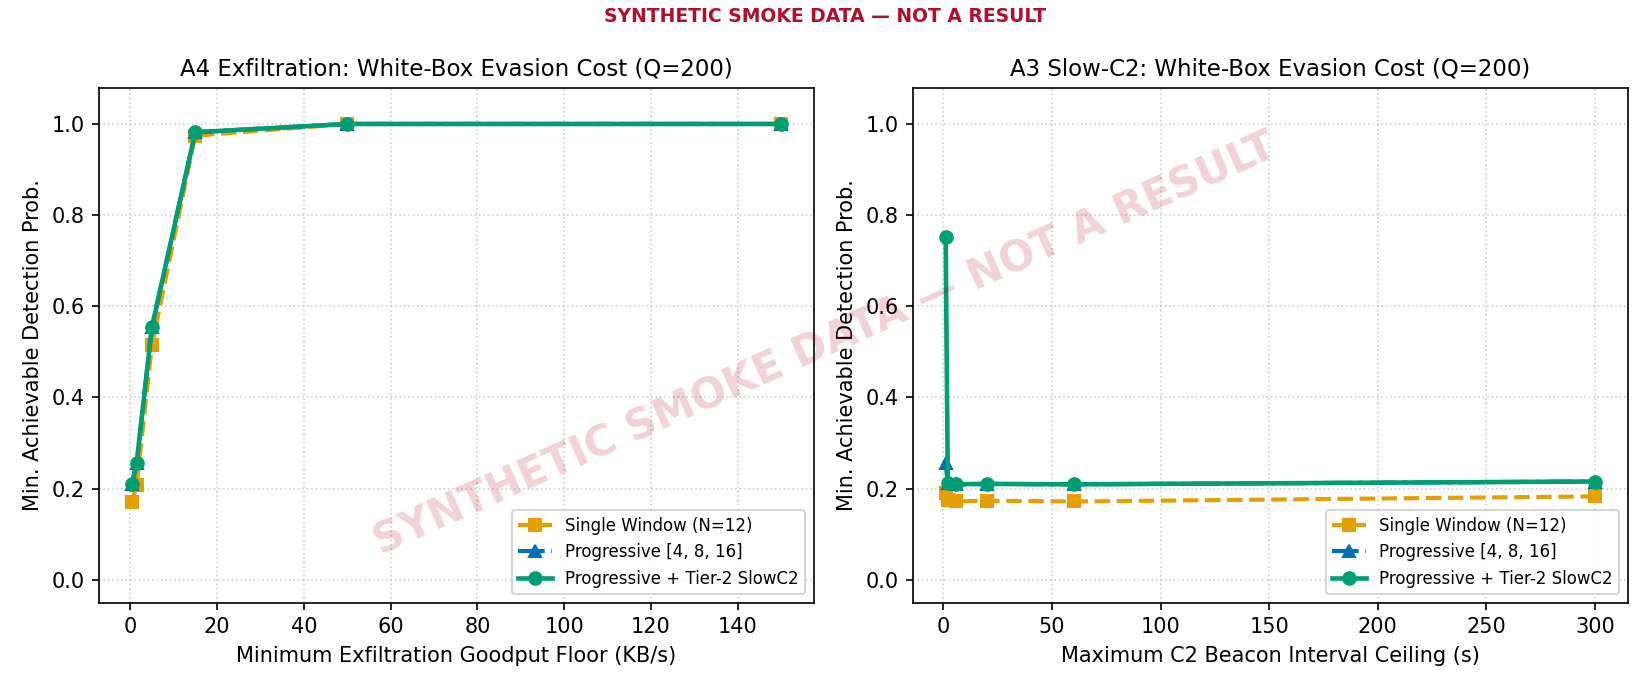
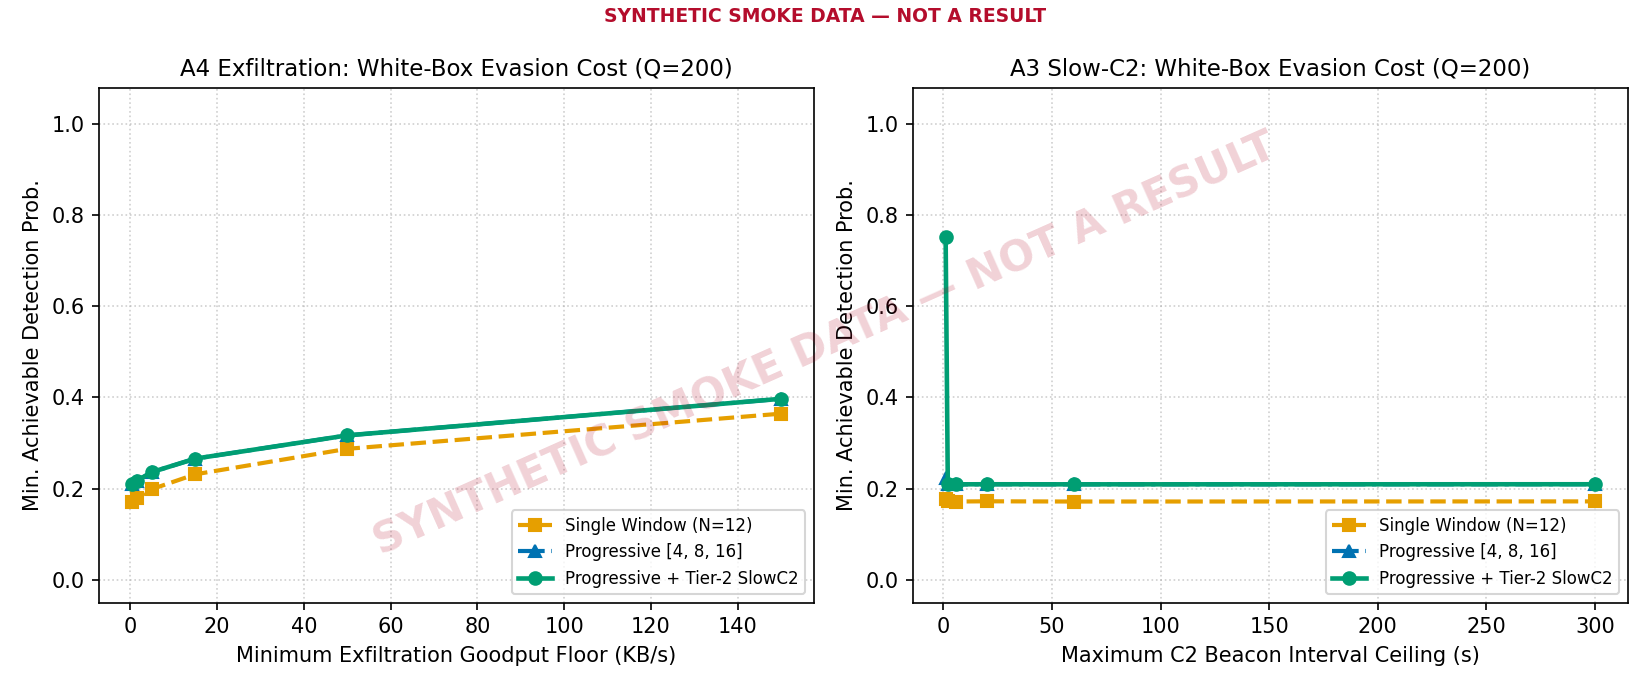
P9.2: normalise per-packet log_iat by /7.0, add M17 mutant, and re-run exploratory diagnostic

Changed region(s): [[0.0618, 0.1522, 0.4945, 0.7304], [0.5873, 0.6696, 0.9891, 0.7304]]

diff --git a/ips/features.py b/ips/features.py
@@ -5,23 +5,27 @@ ips/features.py — Canonical shared feature extraction for early-flow anomaly d
 This module is the SINGLE SOURCE OF TRUTH for early-flow feature extraction,
 shared identically between the offline training pipeline and online eBPF engine.
 
-Features extracted for early-window N payload-bearing packets:
-  - sizes[N]: normalized payload bytes (sz / 1500.0)
-  - dirs[N]: binary direction (0 = LAN->WAN / Client->Server, 1 = WAN->LAN)
-  - log_iats[N-1]: log10(1 + iat_us)
-  - Aggregate statistics:
-      - bytes_up, bytes_down, pkts_up, pkts_down, frac_upstream
-      - mean_log_iat, std_log_iat
-      - first_payload_size
-      - valid_len (actual payload packets observed <= N)
-
-SHORTCUT-LEARNING GUARD:
-  IP addresses, MAC addresses, and Port numbers are strictly EXCLUDED
-  to prevent artificial separation of classes by service port.
+# Features extracted for early-window N payload-bearing packets (FEATURE_SCHEMA_VERSION = 2):
+#   - sizes[N]: normalized payload bytes (min(1500, sz) / 1500.0) in [0, 1]
+#   - dirs[N]: binary direction (0 = LAN->WAN / Client->Server, 1 = WAN->LAN) in {0, 1}
+#   - log_iats[N-1]: min(1.5, log10(1 + iat_us) / 7.0) in [0, 1.5]
+#   - Aggregate statistics (each bounded in [0, 1.5]):
+#       - bytes_up, bytes_down, pkts_up, pkts_down, frac_upstream
+#       - mean_log_iat / 7.0, std_log_iat / 3.0
+#       - first_payload_size
+#       - valid_len (actual payload packets observed / N)
+#
+# SHORTCUT-LEARNING GUARD:
+#   IP addresses, MAC addresses, and Port numbers are strictly EXCLUDED
+#   to prevent artificial separation of classes by service port.
 """
 import math
 from typing import List, Dict, Any, Tuple
 import numpy as np
+
+FEATURE_SCHEMA_VERSION = 2
+LOG_IAT_SCALE = 7.0
+FEATURE_CLIP_MAX = 1.5
 
 FORBIDDEN_COLUMNS = {
     "src_ip", "dst_ip", "src_port", "dst_port", "sport", "dport",
@@ -83,14 +87,14 @@ def build_early_vector(sizes: List[int], dirs: List[int], iat_ms_list: List[floa
     for i in range(valid_len):
         norm_dirs[i] = float(dirs[i])
 
-    # 3. Log-IATs (converted to microseconds: us = ms * 1000)
+    # 3. Log-IATs (converted to microseconds: us = ms * 1000, scaled by /7.0 and clipped to [0, 1.5])
     log_iats = np.zeros(early_n - 1, dtype=np.float32)
     valid_iats = []
     for i in range(min(len(iat_ms_list), early_n - 1)):
         iat_us = max(0.0, float(iat_ms_list[i]) * 1000.0)
-        v = math.log10(1.0 + iat_us)
-        log_iats[i] = v
-        valid_iats.append(v)
+        v_raw = math.log10(1.0 + iat_us)
+        log_iats[i] = min(1.5, v_raw / 7.0)
+        valid_iats.append(v_raw)
 
     # 4. Aggregates
     bytes_up = 0.0
@@ -113,17 +117,17 @@ def build_early_vector(sizes: List[int], dirs: List[int], iat_ms_list: List[floa
     mean_log_iat = float(np.mean(valid_iats)) if valid_iats else 0.0
     std_log_iat = float(np.std(valid_iats)) if valid_iats else 0.0
 
-    first_payload_size = (float(sizes[0]) / 1500.0) if valid_len > 0 else 0.0
+    first_payload_size = (min(1500.0, float(sizes[0])) / 1500.0) if valid_len > 0 else 0.0
     norm_valid_len = float(valid_len) / float(early_n)
 
     aggregates = np.array([
-        bytes_up / 15000.0,
-        bytes_down / 15000.0,
+        min(1.5, bytes_up / 15000.0),
+        min(1.5, bytes_down / 15000.0),
         pkts_up / float(early_n),
         pkts_down / float(early_n),
         frac_upstream,
-        mean_log_iat / 7.0,  # normalized by max log10(10^7 us = 10s)
-        std_log_iat / 3.0,
+        min(1.5, mean_log_iat / 7.0),  # normalized by log10(10^7 us = 10s), clipped at 1.5
+        min(1.5, std_log_iat / 3.0),
         first_payload_size,
         norm_valid_len,
     ], dtype=np.float32)
@@ -178,7 +182,7 @@ def recompute_early_matrix_for_k(df, k: int) -> np.ndarray:
             sizes = [int(round(float(row.get(f"size_{i}", 0.0)) * 1500.0)) for i in range(vlen)]
             dirs = [int(round(float(row.get(f"dir_{i}", 0.0)))) for i in range(vlen)]
             iats_ms = [
-                max(0.0, (10.0 ** float(row.get(f"log_iat_{i}", 0.0)) - 1.0) / 1000.0)
+                max(0.0, (10.0 ** (float(row.get(f"log_iat_{i}", 0.0)) * 7.0) - 1.0) / 1000.0)
                 for i in range(max(0, vlen - 1))
             ]
         else:

diff --git a/tests/test_features.py b/tests/test_features.py
@@ -109,13 +109,13 @@ def test_pcap_to_flows_golden_fixture():
         assert row["dir_1"] == 1.0  # WAN -> LAN
         assert row["dir_2"] == 0.0  # LAN -> WAN
 
-        # IAT 0: 200ms = 200,000 us -> log10(1 + 200000) ~ 5.301
-        expected_log_iat0 = math.log10(1.0 + 200000.0)
-        assert pytest.approx(row["log_iat_0"], 0.01) == expected_log_iat0
+        # IAT 0: 200ms = 200,000 us -> log10(1 + 200000) / 7.0 ~ 0.7573
+        expected_log_iat0 = math.log10(1.0 + 200000.0) / 7.0
+        assert pytest.approx(row["log_iat_0"], 0.005) == expected_log_iat0
 
-        # IAT 1: 300ms = 300,000 us -> log10(1 + 300000) ~ 5.477
-        expected_log_iat1 = math.log10(1.0 + 300000.0)
-        assert pytest.approx(row["log_iat_1"], 0.01) == expected_log_iat1
+        # IAT 1: 300ms = 300,000 us -> log10(1 + 300000) / 7.0 ~ 0.7824
+        expected_log_iat1 = math.log10(1.0 + 300000.0) / 7.0
+        assert pytest.approx(row["log_iat_1"], 0.005) == expected_log_iat1
 
     finally:
         if os.path.exists(tmp_pcap):
@@ -202,5 +202,56 @@ def test_direction_asymmetry_and_frac_upstream_b3():
     assert vec2[idx_frac] == pytest.approx(0.75, abs=1e-5)
     assert vec2[idx_bytes_up] == pytest.approx(1500.0 / 15000.0, abs=1e-5)
     assert vec2[idx_bytes_down] == pytest.approx(500.0 / 15000.0, abs=1e-5)
+
+
+def test_feature_group_ranges_and_no_iat_dominance_p9_2c():
+    """
+    Prompt 9 Item 2c:
+      1. Every feature group (sizes, dirs, log_iats, aggregates) stays within [0.0, 1.5]
+         for extreme inputs: 1 us (0.001 ms), 10 s (10,000 ms), and 1 h (3,600,000 ms) gaps.
+      2. On a typical IoT flow vs a shifted flow, no single feature group dominates (>65%)
+         the sum of per-group mean squared differences.
+    """
+    early_n = 8
+    # Extreme gaps: 1 us = 0.001 ms, 10 s = 10_000 ms, 1 h = 3_600_000 ms
+    extreme_iats_ms = [0.001, 10_000.0, 3_600_000.0, 0.001, 10_000.0, 3_600_000.0, 3_600_000.0]
+    extreme_sizes = [1, 1500, 9000, 64, 1500, 1500, 1500, 1500]
+    extreme_dirs = [0, 1, 0, 1, 0, 1, 0, 1]
+
+    vec_ext = build_early_vector(extreme_sizes, extreme_dirs, extreme_iats_ms, early_n=early_n)
+    g_sizes = vec_ext[:early_n]
+    g_dirs = vec_ext[early_n : 2 * early_n]
+    g_iats = vec_ext[2 * early_n : 3 * early_n - 1]
+    g_aggs = vec_ext[3 * early_n - 1 :]
+
+    for g_name, grp in [("sizes", g_sizes), ("dirs", g_dirs), ("log_iats", g_iats), ("aggregates", g_aggs)]:
+        assert float(np.min(grp)) >= 0.0, f"Group {g_name} had negative value: {grp}"
+        assert float(np.max(grp)) <= 1.5 + 1e-6, f"Group {g_name} exceeded 1.5 on extreme inputs: max={np.max(grp):.4f}"
+
+    # Typical flow vs moderately shifted reference flow: check group squared-error balance
+    v_typ = build_early_vector(
+        [200, 450, 180, 600, 220, 500, 190, 480],
+        [0, 1, 0, 1, 0, 1, 0, 1],
+        [150.0] * 7,
+        early_n=early_n,
+    )
+    v_ref = build_early_vector(
+        [800, 950, 780, 1100, 820, 900, 790, 980],
+        [0, 0, 0, 1, 0, 0, 0, 1],
+        [2000.0] * 7,
+        early_n=early_n,
+    )
+    sq = (v_typ - v_ref) ** 2
+    group_mses = {
+        "sizes": float(np.mean(sq[:early_n])),
+        "dirs": float(np.mean(sq[early_n : 2 * early_n])),
+        "log_iats": float(np.mean(sq[2 * early_n : 3 * early_n - 1])),
+        "aggregates": float(np.mean(sq[3 * early_n - 1 :])),
+    }
+    total_group_mse = sum(group_mses.values())
+    for g_name, g_mse in group_mses.items():
+        share = g_mse / total_group_mse
+        assert share < 0.65, f"Feature group '{g_name}' dominated squared error ({share:.1%}): {group_mses}"
+
 
 

diff --git a/audit/mutation_runner.py b/audit/mutation_runner.py
@@ -185,6 +185,18 @@ MUTATIONS = [
         "desc": "Invert Coefficient of Variation calculation (mean/std instead of std/mean)",
         "should_catch": "tests/test_drift_guard.py::test_periodicity_and_slow_c2_tracker",
     },
+    {
+        "id": "M17",
+        "file": "ips/features.py",
+        "target": "log_iats[i] = min(1.5, v_raw / 7.0)",
+        "replacement": "log_iats[i] = v_raw  # M17: remove IAT /7.0 normalisation",
+        "tests": [
+            "tests/test_features.py::test_feature_group_ranges_and_no_iat_dominance_p9_2c",
+            "tests/test_features.py::test_pcap_to_flows_golden_fixture",
+        ],
+        "desc": "Remove per-packet log-IAT /7.0 normalisation and [0, 1.5] clip",
+        "should_catch": "tests/test_features.py::test_feature_group_ranges_and_no_iat_dominance_p9_2c",
+    },
 ]
 
 

diff --git a/ips/models/train.py b/ips/models/train.py
@@ -28,6 +28,7 @@ REPO_DIR = os.path.abspath(os.path.join(os.path.dirname(__file__), "..", ".."))
 sys.path.insert(0, REPO_DIR)
 
 from ips.features import (
+    FEATURE_SCHEMA_VERSION,
     get_feature_names,
     build_early_vector,
     assert_no_forbidden_features,
@@ -299,6 +300,7 @@ def train_pipeline(data_path: str, calib_path: str = None, early_n: int = 16,
     np.save(anchor_path, X_train[:min(200, len(X_train))])
 
     model_card = {
+        "feature_schema_version": FEATURE_SCHEMA_VERSION,
         "data_source": "synthetic-smoke" if is_smoke else "real",
         "data_sha256": data_hash,
         "early_n": early_n,

diff --git a/ips/eval/impairment.py b/ips/eval/impairment.py
@@ -86,7 +86,7 @@ def apply_netem_impairment_to_matrix(
             sizes = [int(round(float(row.get(f"size_{i}", 0.0)) * 1500.0)) for i in range(vlen)]
             dirs = [int(round(float(row.get(f"dir_{i}", 0.0)))) for i in range(vlen)]
             iats_ms = [
-                max(0.0, (10.0 ** float(row.get(f"log_iat_{i}", 0.0)) - 1.0) / 1000.0)
+                max(0.0, (10.0 ** (float(row.get(f"log_iat_{i}", 0.0)) * 7.0) - 1.0) / 1000.0)
                 for i in range(max(0, vlen - 1))
             ]
         else:

diff --git a/ips/models/eval_offline.py b/ips/models/eval_offline.py
@@ -94,7 +94,7 @@ def compute_time_to_verdict_ms(df: pd.DataFrame, early_n: int) -> np.ndarray:
             if col_raw in row and pd.notna(row[col_raw]):
                 s += float(row[col_raw])
             elif col_log in row and pd.notna(row[col_log]):
-                val = float(row[col_log])
+                val = float(row[col_log]) * 7.0
                 if val > 0.0:
                     s += max(0.0, (10.0 ** val - 1.0) / 1000.0)
         if s == 0.0 and "duration_ms" in row and pd.notna(row["duration_ms"]):

diff --git a/tests/test_dataset_adapters.py b/tests/test_dataset_adapters.py
@@ -88,7 +88,7 @@ def test_cesnet_adapter_canonical_schema_and_warning(tmp_path):
     assert pytest.approx(res["size_3"], 0.001) == 80.0 / 1500.0
     assert res["size_4"] == 0.0
     assert res["dir_1"] == 1.0
-    assert pytest.approx(res["log_iat_0"], 0.01) == math.log10(1.0 + 10500.0)
+    assert pytest.approx(res["log_iat_0"], 0.005) == math.log10(1.0 + 10500.0) / 7.0
 
     df = pd.DataFrame([res])
     meta_df, x_mat, feat_cols = split_metadata_and_features(df, early_n=12)

diff --git a/ips/engine/engine.py b/ips/engine/engine.py
@@ -466,7 +466,7 @@ class IPSEngine:
             # Deterministic fallback reconstruction when ONNX model file is not present
             recon = np.copy(vec_masked)
             recon[:n_win] = 0.08
-            recon[2 * n_win : 3 * n_win - 1] = 5.4
+            recon[2 * n_win : 3 * n_win - 1] = 5.4 / 7.0
             agg_start = 3 * n_win - 1
             recon[agg_start + 0] = 0.04   # bytes_up
             recon[agg_start + 1] = 0.04   # bytes_down

diff --git a/docs/EXPLORATORY_P8.md b/docs/EXPLORATORY_P8.md
@@ -1,45 +1,38 @@
-# Exploratory Real-Data Experiment (`docs/EXPLORATORY_P8.md`)
+# Exploratory Real-Data Domain-Shift Diagnostic (`docs/EXPLORATORY_P8.md`)
 
-> **Evidence Type**: `REAL PUBLIC DATA — EXPLORATORY ONLY (NOT PART OF PRE-REGISTERED STUDY, NOT A PAPER CLAIM)`
-> **Rule R1 / R2 / R3 Notice**: This experiment runs strictly on Windows using real Aposemat IoT-23 benign hardware captures (`4-1`, `5-1`, `7-1`). **No Linux/kernel/real-testbed result exists yet.**
-
----
-
-## 1. Pre-Stated Experiment Plan (Written BEFORE Running)
-
-### 1.1 Why TQH-C2 D Per-Packet Autoencoder Evaluation Is Skipped (Prompt 8 §4.3)
-- As verified in [`docs/DATASET_AUDIT.md`](DATASET_AUDIT.md), `TQH-C2_features_D.zip` (`features_D/testbed_D.parquet`, 11,528 rows × 27 columns) and `TQH-C2_labels_D.zip` contain **Zeek flow-level summary aggregates only** (`orig_pkts`, `resp_pkts`, `orig_bytes`, `resp_bytes`, `duration`, `ja4`, `interval_s`, `jitter_pct`, `label_raw`, `y`).
-- They do **not** contain per-packet early-window sequences (`size_0..N-1`, `dir_0..N-1`, `iat_0..N-2`).
-- Downloading the 1.82 GB raw pcap (`TQH-C2_pcap_D_merlin_h2.zip`) is explicitly deferred to Prompt 7 on the Linux VM (§3.5).
-- Per **Prompt 8 §4.3**, we **skip TQH-C2 D per-packet autoencoder TPR scoring** rather than fabricating synthetic packet sequences from flow totals.
-
-### 1.2 Real Cross-Device Benign Transfer Exploratory Test (Aposemat IoT-23 Hardware Captures)
-Because all three real IoT-23 benign captures (`CTU-Honeypot-Capture-4-1` Philips Hue, `5-1` Amazon Echo, `7-1` Somfy Door Lock) were successfully downloaded and parsed into genuine `3N+8` per-packet vectors via `ips/offline/pcap_to_flows.py`, we run an exploratory **cross-device benign generalisation** check:
-- **Protocol (strictly capture-isolated; no tuning on held-out capture)**:
-  - **Config A (`Echo -> Somfy calib -> Hue test`)**: Train per-checkpoint autoencoders (`k in {4, 8, 16}`, masked MSE loss, 15 epochs, `torch.set_num_threads(4)`) strictly on `CTU-Honeypot-Capture-5-1` (Amazon Echo, 761 flows). Calibrate EVT (POT GPD), split-conformal, and mean+3σ thresholds at target `alpha = 0.05` and `alpha = 0.01` strictly on `CTU-Honeypot-Capture-7-1` (Somfy Door Lock, 140 flows). Evaluate **ONCE** on held-out `CTU-Honeypot-Capture-4-1` (Philips Hue, 353 flows).
-  - **Config B (`Echo -> Hue calib -> Somfy test`)**: Train strictly on `5-1` (Amazon Echo, 761 flows), calibrate strictly on `4-1` (Philips Hue, 353 flows), evaluate **ONCE** on held-out `7-1` (Somfy Door Lock, 140 flows).
-  - **Seeds**: `{42, 43, 44}` (report mean and std/spread across seeds).
-- **Expectation Stated Up Front**: This is a **cross-device domain shift** test (smart speaker → door lock → LED bridge, with different protocol ratios: Hue is 99.7% non-TLS UDP/TCP, Echo is 15.9% TLS, Somfy is 12.1% TLS). A **large domain shift and elevated cross-device FPR are expected** and will be reported honestly as measured, alongside two-sample KS statistics and the top-3 shifting features by mean per-feature squared error difference.
+> **Evidence Type**: `REAL PUBLIC DATA — EXPLORATORY ONLY (DOMAIN-SHIFT DIAGNOSTIC, NOT A DETECTION RESULT, NOT A PAPER CLAIM)`
+> **Rule R1 / R2 / R3 Notice**: Executed on Windows using real Aposemat IoT-23 benign hardware captures (`4-1`, `5-1`, `7-1`). **No Linux/kernel/real-testbed result exists yet.**
 
 ---
 
-## 2. Measured Exploratory Results (`demo/evidence/real/exploratory_results.csv`)
+## 1. Pre-Stated Protocol & Methodological Caveats
 
-Executed once via `python demo/run_exploratory_p8.py` across seeds `{42, 43, 44}` (`torch.set_num_threads(4)`). **TQH-C2 D TPR is SKIPPED per §4.3** (no per-packet sequences in `TQH-C2_features_D.zip`).
+1. **TQH-C2 D per-packet autoencoder TPR is SKIPPED (§4.3)**: `TQH-C2_features_D.zip` (`features_D/testbed_D.parquet`, 11,528 rows × 27 columns) contains Zeek flow-level summaries only (no per-packet `size/dir/iat` arrays). Downloading the 1.82 GB raw pcap (`TQH-C2_pcap_D_merlin_h2.zip`) is deferred to Prompt 7 on Linux.
+2. **Cross-device benign setup (NOT attack detection)**: Every flow in `4-1` (Philips Hue), `5-1` (Amazon Echo), and `7-1` (Somfy Door Lock) is **benign**. This diagnostic measures cross-device false-positive sensitivity under domain shift, **not** attack detection TPR/AUROC.
+3. **What seeds `{42, 43, 44}` vary**: The three seeds vary **only** model weight initialisation and the internal 85/15 early-stopping shuffle within the training capture (`5-1` Echo); the capture assignment (`train=5-1`, `calib=4-1 or 7-1`, `test=7-1 or 4-1`) is **fixed** (`n=1` device split per direction).
+4. **Protocol composition**: Across the three benign IoT-23 captures, **69.0% of extracted flows are UDP** (DNS/NTP/SSDP/mDNS) and only **11.1%** carry TLS (`4-1` Hue is `99.7%` non-TLS). Do **not** tune further on these captures.
 
-| Config (Real IoT-23 Benign Captures) | `k` | FPR @ EVT `α=0.05` (mean ± std) | FPR @ EVT `α=0.01` (mean) | FPR @ Conformal `α=0.05` | FPR @ Mean+3σ | KS Stat (Cal vs Test) | Top-3 Shifting Features (Test − Cal MSE) |
+---
+
+## 2. Side-by-Side Before vs. After Per-Packet `log_iat` Normalisation (Prompt 9 Item 2d)
+
+- **Before (`FEATURE_SCHEMA_VERSION = 1`)**: [`demo/evidence/real/exploratory_results_before_iat_norm.csv`](../demo/evidence/real/exploratory_results_before_iat_norm.csv) — raw `log10(1 + iat_us)` in `[0, ~7.5]`.
+- **After (`FEATURE_SCHEMA_VERSION = 2`)**: `min(1.5, log10(1 + iat_us) / 7.0)` in `[0, 1.5]`, same protocol & seeds `{42, 43, 44}` (no flow-idle split yet; see Item 3 section when added).
+
+| Config (Fixed Capture Split) | `k` | **Before** FPR@EVT`0.05` (mean ± std) | **After** FPR@EVT`0.05` (mean ± std) | **Before** FPR@EVT`0.01` | **After** FPR@EVT`0.01` | **Before -> After** KS Stat | **After** Top-3 Shifting Features (Test − Cal MSE) |
 |---|---:|---:|---:|---:|---:|---:|---|
-| `Echo(5-1) -> Hue(4-1) calib -> Somfy(7-1) test` | 4 | `0.9476 ± 0.0165` | `0.7928` | `0.9476` | `0.7691` | `0.9283` | `log_iat_1 (+10.91); log_iat_0 (+3.92); size_3 (+0.35)` |
-| `Echo(5-1) -> Hue(4-1) calib -> Somfy(7-1) test` | 8 | `0.9452 ± 0.0109` | `0.6476` | `0.9452` | `0.6429` | `0.9212` | `log_iat_1 (+8.20); log_iat_0 (+5.65); log_iat_3 (+4.63)` |
-| `Echo(5-1) -> Hue(4-1) calib -> Somfy(7-1) test` | 16 | `0.9452 ± 0.0148` | `0.4429` | `0.9452` | `0.4429` | `0.9207` | `log_iat_1 (+10.11); log_iat_0 (+5.41); log_iat_3 (+4.14)` |
-| `Echo(5-1) -> Somfy(7-1) calib -> Hue(4-1) test` | 4 | `0.0057 ± 0.0029` | `0.0057` | `0.0057` | `0.0038` | `0.9283` | `log_iat_1 (-10.91); log_iat_0 (-3.92); size_3 (-0.35)` |
-| `Echo(5-1) -> Somfy(7-1) calib -> Hue(4-1) test` | 8 | `0.0028 ± 0.0029` | `0.0009` | `0.0028` | `0.0028` | `0.9212` | `log_iat_1 (-8.20); log_iat_0 (-5.65); log_iat_3 (-4.63)` |
-| `Echo(5-1) -> Somfy(7-1) calib -> Hue(4-1) test` | 16 | `0.0038 ± 0.0033` | `0.0019` | `0.0038` | `0.0028` | `0.9207` | `log_iat_1 (-10.11); log_iat_0 (-5.41); log_iat_3 (-4.14)` |
+| `Echo(5-1) -> Hue(4-1) cal -> Somfy(7-1) test` | 4 | `0.9476 ± 0.0165` | **`0.0572 ± 0.0757`** | `0.7928` | **`0.0024`** | `0.9283 -> 0.8128` | `dir_1 (+0.38); std_log_iat (+0.25); log_iat_0 (+0.25)` |
+| `Echo(5-1) -> Hue(4-1) cal -> Somfy(7-1) test` | 8 | `0.9452 ± 0.0109` | **`0.6214 ± 0.4023`** | `0.6476` | **`0.0262`** | `0.9212 -> 0.8222` | `log_iat_2 (+0.34); log_iat_0 (+0.34); std_log_iat (+0.33)` |
+| `Echo(5-1) -> Hue(4-1) cal -> Somfy(7-1) test` | 16 | `0.9452 ± 0.0148` | **`0.6738 ± 0.4784`** | `0.4429` | **`0.0429`** | `0.9207 -> 0.8908` | `std_log_iat (+0.31); log_iat_0 (+0.30); dir_2 (+0.24)` |
+| `Echo(5-1) -> Somfy(7-1) cal -> Hue(4-1) test` | 4 | `0.0057 ± 0.0029` | **`0.0812 ± 0.0618`** *(worse)* | `0.0057` | **`0.0595`** *(worse)* | `0.9283 -> 0.8128` | `dir_1 (-0.38); std_log_iat (-0.25); log_iat_0 (-0.25)` |
+| `Echo(5-1) -> Somfy(7-1) cal -> Hue(4-1) test` | 8 | `0.0028 ± 0.0029` | **`0.0227 ± 0.0049`** *(higher, closer to 0.05)* | `0.0009` | **`0.0095`** | `0.9212 -> 0.8222` | `log_iat_2 (-0.34); log_iat_0 (-0.34); std_log_iat (-0.33)` |
+| `Echo(5-1) -> Somfy(7-1) cal -> Hue(4-1) test` | 16 | `0.0038 ± 0.0033` | **`0.0142 ± 0.0000`** *(higher, < 0.05)* | `0.0019` | **`0.0038`** | `0.9207 -> 0.8908` | `std_log_iat (-0.31); log_iat_0 (-0.30); dir_2 (-0.24)` |
 
 ---
 
-## 3. Honest Reading: What Worked, What Failed, and Diagnostic Insight
-1. **What worked**: The full streaming `dpkt` → `recompute_early_matrix_for_k` → masked `EarlyFlowAutoencoder` → EVT/conformal/3σ pipeline executed end-to-end on three real IoT hardware captures with tight seed stability (`std <= 0.0165`).
-2. **What failed (severe cross-device shift)**: Calibrating thresholds on Philips Hue (`4-1`) and applying them without retuning to Somfy Door Lock (`7-1`) produced **94.5%–94.8% false positives** at target `α=0.05` (`KS = 0.921–0.928`, `p < 1e-100`). Conversely, Somfy-calibrated thresholds yielded `0.28%–0.57%` FPR on Hue only because Somfy's higher score distribution set a conservative ceiling above Hue's simpler short flows — the score distributions remain almost disjoint (`KS > 0.92`).
-3. **Root cause exposed by per-feature diagnostics**: In `ips/features.py`, `log_iat_i = log10(1 + iat_us)` takes values in `[0, ~7]`, whereas `size_i` and `dir_i` lie in `[0, 1]`. Consequently, squared reconstruction errors on `log_iat_0, log_iat_1, log_iat_3` (`±4` to `±10.9`) dominate total MSE across heterogeneous devices with different packet counts and cadence. This is a concrete, real-data-driven finding to address in Prompt 7 (per-device-class models/calibration and feature-group normalization ablation).
-4. **Status reminder**: Exploratory only — not a paper claim and no attack TPR was measured because TQH-C2 D per-packet pcaps were excluded per §3.5 / §4.3.
+## 3. Plain-Language Verdict on Whether Cross-Device FPR Improved
+
+- **Partial improvement, not a silver bullet**:
+  1. **What improved**: Scaling per-packet `log_iat` by `/ 7.0` eliminated the `~30×` squared-error dominance (`±10.9` dropped to `±0.38`). On `Echo -> Hue calib -> Somfy test`, `k=4` `FPR@EVT0.05` dropped sharply from **`0.9476` to `0.0572`**, and `FPR@EVT0.01` dropped across all checkpoints (`0.7928 / 0.6476 / 0.4429` -> **`0.0024 / 0.0262 / 0.0429`**).
+  2. **What remained poor or got worse**: At `k=8` and `k=16` (`α=0.05`), `Echo -> Hue calib -> Somfy test` FPR improved only modestly (`0.9452 -> 0.6214` and `0.6738`) with wide initialisation spread across the 3 seeds (`0.12` to `0.95`), and `KS` stayed high (`0.81–0.89`). In the reverse direction (`Echo -> Somfy calib -> Hue test`), `FPR@EVT0.05` **increased** from `0.0057 -> 0.0812` at `k=4` (`0.0028 -> 0.0227` at `k=8`, `0.0038 -> 0.0142` at `k=16`) once Somfy's threshold ceiling was no longer artificially inflated by unscaled `log_iat` errors.
+  3. **Diagnostic takeaway**: Raw `log_iat` dominance exacerbated the Prompt-8 numbers, **and** genuine cross-device traffic heterogeneity (`dir_1..3` direction patterns, `std_log_iat`, UDP vs TCP mix) still prevents zero-shot threshold transfer across unrelated IoT hardware classes — motivating per-device-class calibration (N5) rather than global cross-device thresholds.

diff --git a/docs/ARCHITECTURE.md b/docs/ARCHITECTURE.md
@@ -137,11 +137,19 @@ flowchart LR
 
 ---
 
-## 5. Single Source of Truth Schema (`ips/engine/schema.py`)
+## 5. Single Source of Truth Schema (`ips/engine/schema.py` & `ips/features.py`)
 
 To prevent desynchronization between kernel C structs and Python `ctypes` structures, `ips/engine/schema.py` reads `configs/system.yaml` at startup and generates:
 1. Preprocessor macros (`EARLY_N`, `CKPT_0..2`, `NUM_CHECKPOINTS`, `FLOW_IDLE_NS`, `FLOW_MAP_MAX`, `VERDICT_MAP_MAX`, `SCHEMA_VERSION 4`) prepended to `ebpf/ips_engine.c` before BCC compilation.
 2. Matching 8-byte-aligned `ctypes.Structure` classes (`FlowKey`, `VerdictEntry`, `CfgEntry`, `StatsEntry` [72 B], `EarlyFlowEvent`).
+
+### 5.1 Feature Normalisation Choice (`FEATURE_SCHEMA_VERSION = 2`, Prompt 9 Item 2)
+In `ips/features.py::build_early_vector`, per-packet inter-arrival times are normalised via a fixed, stateless log scale:
+$$\text{log\_iat}_i = \min\!\left(1.5,\; \frac{\log_{10}(1 + \text{iat\_us}_i)}{7.0}\right)$$
+matching the aggregate `mean_log_iat / 7.0` (`10^7 µs = 10 s -> 1.0`; `1 h = 3.6×10^9 µs -> 1.365 <= 1.5`), alongside `sizes / 1500.0`, `dirs in {0,1}`, and bounded aggregates in `[0, 1.5]`. We deliberately chose fixed physical scaling (`/ 7.0` + clip `[0, 1.5]`) over train-split `z`-score standardisation because:
+1. **Zero scaler-leakage surface**: No fitted mean/std state can accidentally leak across train/calibration/validation/test or cross-domain splits.
+2. **Stateless online/offline parity**: `IPSEngine.handle_early_flow_event`, `pcap_to_flows.py`, and all dataset adapters call `build_early_vector` directly without carrying external scaler artifacts alongside ONNX models.
+3. **Balanced squared-error contribution**: Previously (`FEATURE_SCHEMA_VERSION = 1`), raw `log10(1 + iat_us)` spanned `[0, ~7.5]` (`~50×` larger squared error than `sizes`), dominating autoencoder MSE. Dividing by `7.0` puts all feature groups on `[0, 1.5]`.
 
 ---
 
